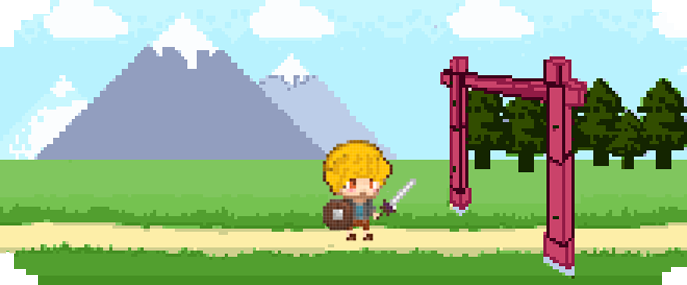
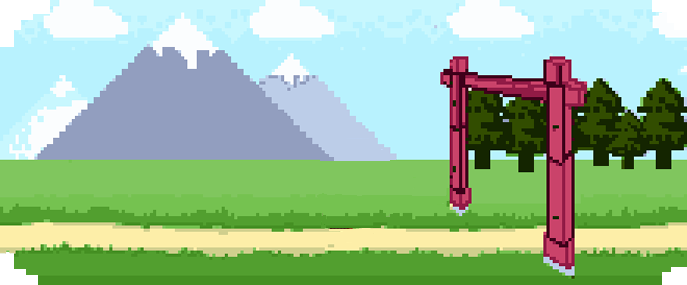
진주: 마을 게임 시작 트윈, 페이드 아웃, 정훈: 스토리 수정 후 커밋

Changed region(s): [[0.4585, 0.4772, 0.6114, 0.8421]]

diff --git a/RhythmiCal/src/main/webapp/resources/Phaser/Village.js b/RhythmiCal/src/main/webapp/resources/Phaser/Village.js
@@ -40,6 +40,7 @@ var descText; // 모션 설명하는 비트맵 텍스트 변수
 var desctextX = 1180;
 var desctextY = 550;
 var descBackground;
+var beatoven_walk;
 var btnSound, doorOpen, doorClose; // 버튼 클릭, 문 열기, 문 닫기 사운드
 var descArray = [ '[찌르기]\nTriple Attack:\n공격력이\n3배로 증가'
 				, '[올려치기]\nKnock Down:\n적을 잠시\n뒤로 가게 하는 효과'
@@ -83,6 +84,7 @@ preload : function() {
    game.load.image('start', 'resources/Images/town/townImg/start.png');
    game.load.image('start_push', 'resources/Images/town/townImg/start_push.png');
    game.load.image('mm','resources/Images/town/townImg/mm.png');
+   game.load.spritesheet('beatoven_walk', 'resources/Images/town/townImg/beatoven_walk.png', 32, 32, 6); // 비토벤 스프라이트시트
    
    game.load.audio('townBGM','resources/Images/town/townbgm.mp3');	//마을브금
    game.load.audio('btnSound','resources/Images/town/button_click.mp3'); //버튼 클릭
@@ -852,7 +854,12 @@ function goHome(inputKey) {
 function frontoftown() {
 	m_back = game.add.image(750,75,'menu_sub_back');
 	m_back.alpha = 0.8;
+	
     image = game.add.image(810, 120, 'front');
+    beatoven_walk = game.add.sprite(840,230, 'beatoven_walk'); 
+	beatoven_walk.scale.set(4); 
+	beatoven_walk.smoothed = false; 
+	
     border = game.add.image(810, 120, 'border');
     textboard = game.add.image(810, 450,'textboard');
     textboard.scale.set(2);
@@ -872,11 +879,30 @@ function gamestart(inputKey) {
 		depth = 0; 
 	}
 	   else if (inputKey == 'enter') {
-		 start.destroy();
-		 e_select.destroy();
-		 var startpush = game.add.image(970, 595,'start_push'); 
-		 startpush.scale.set(0.89);
-		 alert('Next Stroy Or Game Start');
+		start.destroy();
+		e_select.destroy();
+		var startpush = game.add.image(970, 595,'start_push'); 
+		startpush.scale.set(0.89);
+		alert('Next Stroy Or Game Start');
+		 
+		var walk = beatoven_walk.animations.add('walk');
+		beatoven_walk.play('walk',3,true); //속도
+		
+		game.add.tween(beatoven_walk).to({x: 1800}, 5000, Phaser.Easing.Linear.None, true, 0);
+	
+		
+		// 게임 종료. 검정 화면 준비.   
+	    sprite = game.add.sprite(0, 0, 'finish');
+	    
+	    // 원래 사이즈 보다 확대 하고 alph로 투명도 조절.moveButtonFocus
+	    sprite.scale.set(5);
+	    sprite.anchor.setTo(0.5, 0.5);
+	    sprite.alpha = 0;
+	    
+	    //화면에서 검정화면으로 조정.
+	    game.add.tween(sprite).to( { alpha: 1 }, 2000, Phaser.Easing.Linear.None, true, 0, 0, false);
+		
+		
 	   }
 }
 function playerCount() {
@@ -939,6 +965,7 @@ function isnull() {
 	if (text2!= null) {text2.destroy();}
 	if (e_select!= null) {e_select.destroy();}
 	if (button1 != null) {button1.destroy();}
+	if (beatoven_walk != null) {beatoven_walk.destroy();}
 	if (button2 != null) {button2.destroy();}
 	if (button3 != null) {button3.destroy();}
 	if (lane1 != null) {lane1.destroy();}

diff --git a/RhythmiCal/src/main/webapp/resources/Phaser/Story.js b/RhythmiCal/src/main/webapp/resources/Phaser/Story.js
@@ -94,20 +94,18 @@ Story.prototype = {
 	    game.load.image("textbox", "resources/Images/tutorial/dialog.png");
 	},
 	create: function() {
-		
+		storyOrder = 0;
 		
 		cursors = game.input.keyboard.createCursorKeys();
 		this.typethetext("STORY_"+storyNum,game.world.centerX-150, game.world.centerY- 50,90);
 		
 		//2초있다가  스토리 시작
 		game.time.events.add(2000, function () {  //글자 나올때 소리 추가
-		
+			
 			//카메라 페이드 인
 			game.camera.flash(0x000000, 3000);   
 		
 			typewriter.destroy();
-			
-		   	storyOrder = 0;
 		   	
 	   		this.dialogueExport(storyOrder);
 		}, this);
@@ -216,7 +214,12 @@ Story.prototype = {
  			console.log("음악 효과 재생 =" + arr[storyOrder].bgMusicName);
  		}
  		
-		//배경이미지
+		//배경이미지 
+ 		//배경바뀌면 전환효과
+        if(bgImgName != arr[storyOrder].bgImgName){
+            //카메라 페이드 인
+           game.camera.flash(0x000000, 500);   
+         }
 		bgImgName = arr[storyOrder].bgImgName;
 	    backimage = game.add.sprite(0, 0, bgImgName);
 	    if(bgImgName == '전당'){
